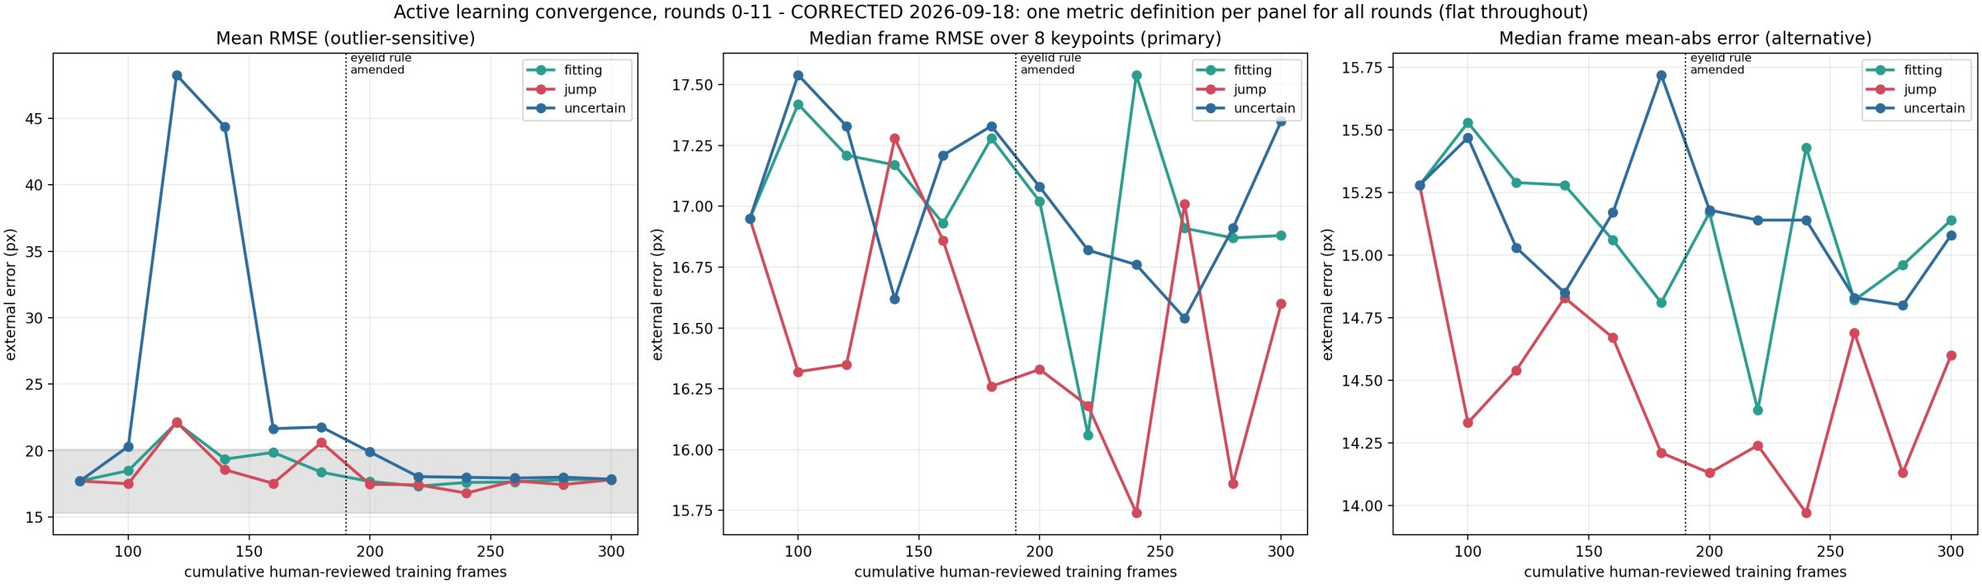
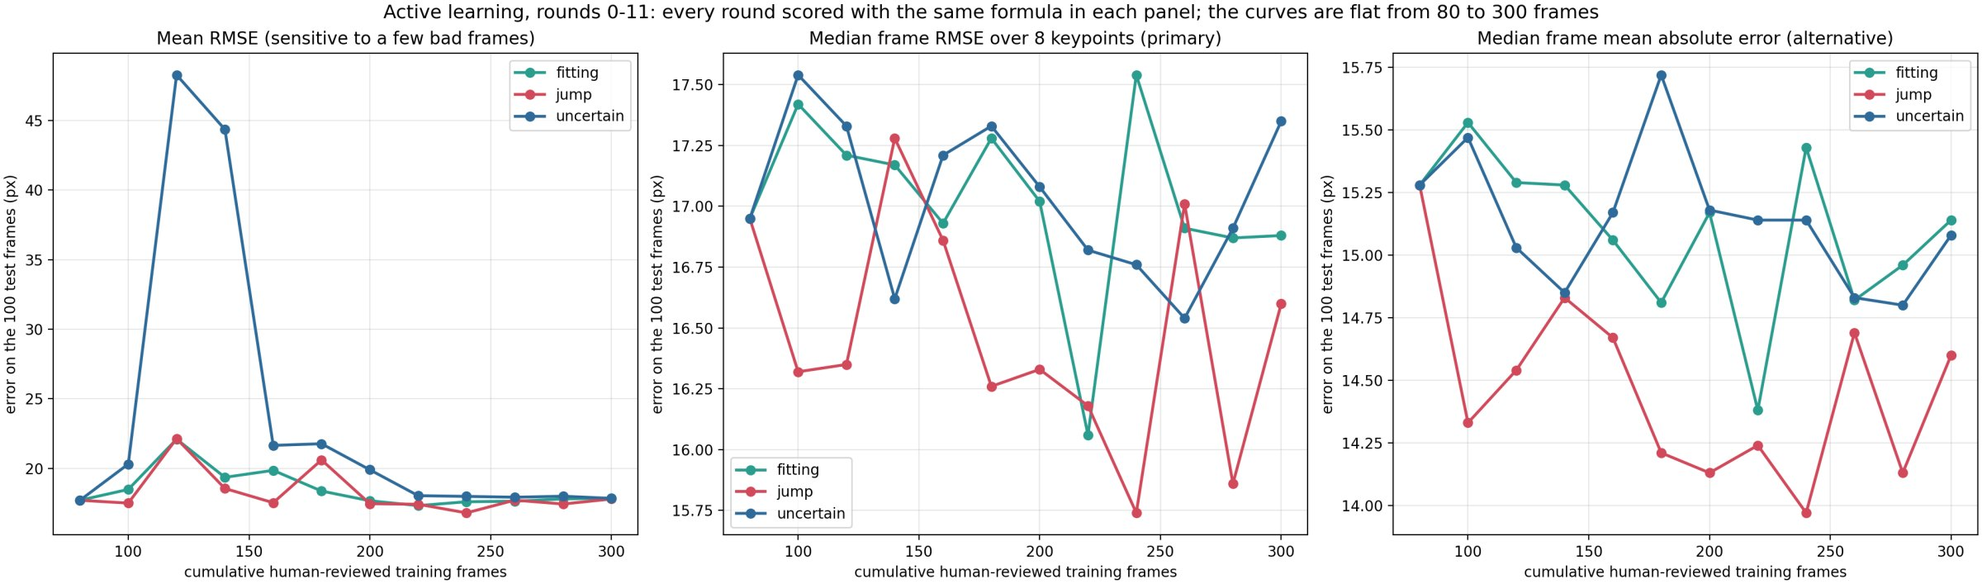
Active-learning results stated with one formula only: README rewritten without the retracted round-6 sections, page uses the redrawn figure and drops the correction passage
Claude-Session: https://claude.ai/code/session_017MK5SWBFFQAu8ejFk1z7fh

diff --git a/report/index.html b/report/index.html
@@ -69,7 +69,7 @@ code{font-family:var(--mono);font-size:.9em}
 
 <header>
   <h1><span lang="zh">小鼠眼睛关键点追踪：做了什么，结果是什么</span><span lang="en">Mouse eye keypoint tracking: what was done and what came out</span></h1>
-  <p class="muted small">Zhiheng Li (University of Minnesota), Kaiwen Sheng (Stanford) · <span lang="zh">页面生成时间</span><span lang="en">page built</span> 2026-10-03 23:49 · <a href="https://github.com/ZhihengLi0/mouse-behavior-tracking">GitHub: ZhihengLi0/mouse-behavior-tracking</a></p>
+  <p class="muted small">Zhiheng Li (University of Minnesota), Kaiwen Sheng (Stanford) · <span lang="zh">页面生成时间</span><span lang="en">page built</span> 2026-10-04 00:13 · <a href="https://github.com/ZhihengLi0/mouse-behavior-tracking">GitHub: ZhihengLi0/mouse-behavior-tracking</a></p>
 
   <div class="text" lang="zh">
     <p><b>任务：</b>用 DeepLabCut 在小鼠眼睛视频的每一帧上找 8 个点：瞳孔上、下、左、右，上眼睑、下眼睑，鼻侧眼角、颞侧眼角。由这 8 个点得到瞳孔大小、眼睛睁开程度和眨眼，之后与脑记录对齐。</p>
@@ -237,11 +237,11 @@ code{font-family:var(--mono);font-size:.9em}
   <p class="text" lang="en"><span class="tag">What was done:</span>The aim is to choose an error-correction algorithm: once a model is trained, an algorithm searches the video for frames where the model is probably wrong, a person corrects only those frames, and the model is retrained. This procedure is called active learning. Three algorithms were compared to see whose picks reduce the error most. Procedure: starting from 80 labels, each round the algorithm picks frames, a person corrects 20 of them, they are added and the model is retrained. Three detectors ran as three branches: low confidence (uncertain), keypoints jumping between consecutive frames (jump), deviation from a smooth trajectory (fitting). 11 rounds, each branch from 80 to 300 labels.</p>
   <figure>
     <div class="figbox"><img src="assets/fig_active_learning.jpg" alt="Active learning convergence, rounds 0-11"></div>
-    <figcaption lang="zh"><span class="tag">怎么看：</span>横轴是累计训练帧数，三种颜色是三种算法。<b>中间一幅是主要指标</b>（中位帧 RMSE）：三条线一直在 15.7–17.5 px 之间上下波动，没有下降趋势；红线（jump）多数时候略低；注意这幅图的纵轴只跨 2 px。左边一幅是均值，会被几帧严重错误拉高（蓝线在 120–140 帧的尖峰就是几帧眨眼造成的）。</figcaption>
-    <figcaption lang="en"><span class="tag">How to read:</span>x = cumulative training frames, the three colours are the three detectors. <b>The middle panel is the primary metric</b> (median frame RMSE): all three lines wander between 15.7 and 17.5 px with no downward trend; the red line (jump) is slightly lower most of the time; note that its y axis spans only 2 px. The left panel is the mean, which a few badly wrong frames pull up (the blue spike at 120–140 frames comes from a few blink frames).</figcaption>
+    <figcaption lang="zh"><span class="tag">怎么看：</span>横轴是累计训练帧数，三种颜色是三种算法。图中每一轮都用同一个公式计算。<b>中间一幅是主要指标</b>（中位帧 RMSE）：三条线一直在 15.7–17.5 px 之间上下波动，没有下降趋势；红线（jump）多数时候略低；注意这幅图的纵轴只跨 2 px。左边一幅是均值，会被几帧严重错误拉高（蓝线在 120–140 帧的尖峰就是几帧眨眼造成的）。</figcaption>
+    <figcaption lang="en"><span class="tag">How to read:</span>x = cumulative training frames, the three colours are the three detectors. Every round in the figure is scored with the same formula. <b>The middle panel is the primary metric</b> (median frame RMSE): all three lines wander between 15.7 and 17.5 px with no downward trend; the red line (jump) is slightly lower most of the time; note that its y axis spans only 2 px. The left panel is the mean, which a few badly wrong frames pull up (the blue spike at 120–140 frames comes from a few blink frames).</figcaption>
   </figure>
-  <p class="concl" lang="zh"><span class="tag">结论：</span>选 jump 作为纠错算法，之后的实验统一用它挑帧。三种算法没有明显差距，jump 略微领先：11 轮的平均中位误差是 jump 16.4 px、uncertain 17.0 px、fitting 17.0 px，11 轮里有 8 轮 jump 最低；差距只有约 0.6 px，小于同一设置重复训练时的波动，所以不能说 jump 确实更好。这一步同时得到另一个结果：在这个视频上（第一阶段的标注标准），约 80 帧就已经饱和，加到 300 帧误差不变。新标准下在同一个视频上重做，结果一致（第 8 步，视频 0：20–100 帧都在 12–13 px）。更正记录：第 6 轮曾报告“误差下降”，后来查出是中途换了误差公式造成的，已撤回（9 月 18 日）；这张图是统一公式后重算的。从此规定：同一个指标只用同一个脚本、同一个公式。</p>
-  <p class="concl" lang="en"><span class="tag">Conclusion:</span>jump is chosen as the error-correction algorithm and picks the frames in all later experiments. The three detectors show no clear gap, with jump slightly ahead: the mean of the median error over the 11 rounds is 16.4 px for jump, 17.0 px for uncertain and 17.0 px for fitting, and jump is the lowest in 8 of the 11 rounds; but the gap is only about 0.6 px, smaller than the run-to-run variation of one setting, so jump cannot be called truly better. The step gave a second result as well: on this video (phase-1 label standard) about 80 labels already saturate, and 300 labels give the same error. Redone on the same video under the new standard, the result is the same (step 8, video 0: 12–13 px anywhere from 20 to 100 labels). Correction on record: a "drop" reported at round 6 was traced to a change of error formula mid-series and was retracted (2026-09-18); this figure is recomputed with one formula. Rule since then: one metric, one script, one formula.</p>
+  <p class="concl" lang="zh"><span class="tag">结论：</span>选 jump 作为纠错算法，之后的实验统一用它挑帧。三种算法没有明显差距，jump 略微领先：11 轮的平均中位误差是 jump 16.4 px、uncertain 17.0 px、fitting 17.0 px，11 轮里有 8 轮 jump 最低；差距只有约 0.6 px，小于同一设置重复训练时的波动，所以不能说 jump 确实更好。这一步同时得到另一个结果：在这个视频上（第一阶段的标注标准），约 80 帧就已经饱和，加到 300 帧误差不变。新标准下在同一个视频上重做，结果一致（第 8 步，视频 0：20–100 帧都在 12–13 px）。</p>
+  <p class="concl" lang="en"><span class="tag">Conclusion:</span>jump is chosen as the error-correction algorithm and picks the frames in all later experiments. The three detectors show no clear gap, with jump slightly ahead: the mean of the median error over the 11 rounds is 16.4 px for jump, 17.0 px for uncertain and 17.0 px for fitting, and jump is the lowest in 8 of the 11 rounds; but the gap is only about 0.6 px, smaller than the run-to-run variation of one setting, so jump cannot be called truly better. The step gave a second result as well: on this video (phase-1 label standard) about 80 labels already saturate, and 300 labels give the same error. Redone on the same video under the new standard, the result is the same (step 8, video 0: 12–13 px anywhere from 20 to 100 labels).</p>
 </section>
 
 <!-- 4 -->

diff --git a/report/template.html b/report/template.html
@@ -237,11 +237,11 @@ code{font-family:var(--mono);font-size:.9em}
   <p class="text" lang="en"><span class="tag">What was done:</span>The aim is to choose an error-correction algorithm: once a model is trained, an algorithm searches the video for frames where the model is probably wrong, a person corrects only those frames, and the model is retrained. This procedure is called active learning. Three algorithms were compared to see whose picks reduce the error most. Procedure: starting from 80 labels, each round the algorithm picks frames, a person corrects 20 of them, they are added and the model is retrained. Three detectors ran as three branches: low confidence (uncertain), keypoints jumping between consecutive frames (jump), deviation from a smooth trajectory (fitting). 11 rounds, each branch from 80 to 300 labels.</p>
   <figure>
     <div class="figbox"><img src="assets/fig_active_learning.jpg" alt="Active learning convergence, rounds 0-11"></div>
-    <figcaption lang="zh"><span class="tag">怎么看：</span>横轴是累计训练帧数，三种颜色是三种算法。<b>中间一幅是主要指标</b>（中位帧 RMSE）：三条线一直在 15.7–17.5 px 之间上下波动，没有下降趋势；红线（jump）多数时候略低；注意这幅图的纵轴只跨 2 px。左边一幅是均值，会被几帧严重错误拉高（蓝线在 120–140 帧的尖峰就是几帧眨眼造成的）。</figcaption>
-    <figcaption lang="en"><span class="tag">How to read:</span>x = cumulative training frames, the three colours are the three detectors. <b>The middle panel is the primary metric</b> (median frame RMSE): all three lines wander between 15.7 and 17.5 px with no downward trend; the red line (jump) is slightly lower most of the time; note that its y axis spans only 2 px. The left panel is the mean, which a few badly wrong frames pull up (the blue spike at 120–140 frames comes from a few blink frames).</figcaption>
+    <figcaption lang="zh"><span class="tag">怎么看：</span>横轴是累计训练帧数，三种颜色是三种算法。图中每一轮都用同一个公式计算。<b>中间一幅是主要指标</b>（中位帧 RMSE）：三条线一直在 15.7–17.5 px 之间上下波动，没有下降趋势；红线（jump）多数时候略低；注意这幅图的纵轴只跨 2 px。左边一幅是均值，会被几帧严重错误拉高（蓝线在 120–140 帧的尖峰就是几帧眨眼造成的）。</figcaption>
+    <figcaption lang="en"><span class="tag">How to read:</span>x = cumulative training frames, the three colours are the three detectors. Every round in the figure is scored with the same formula. <b>The middle panel is the primary metric</b> (median frame RMSE): all three lines wander between 15.7 and 17.5 px with no downward trend; the red line (jump) is slightly lower most of the time; note that its y axis spans only 2 px. The left panel is the mean, which a few badly wrong frames pull up (the blue spike at 120–140 frames comes from a few blink frames).</figcaption>
   </figure>
-  <p class="concl" lang="zh"><span class="tag">结论：</span>选 jump 作为纠错算法，之后的实验统一用它挑帧。三种算法没有明显差距，jump 略微领先：11 轮的平均中位误差是 jump 16.4 px、uncertain 17.0 px、fitting 17.0 px，11 轮里有 8 轮 jump 最低；差距只有约 0.6 px，小于同一设置重复训练时的波动，所以不能说 jump 确实更好。这一步同时得到另一个结果：在这个视频上（第一阶段的标注标准），约 80 帧就已经饱和，加到 300 帧误差不变。新标准下在同一个视频上重做，结果一致（第 8 步，视频 0：20–100 帧都在 12–13 px）。更正记录：第 6 轮曾报告“误差下降”，后来查出是中途换了误差公式造成的，已撤回（9 月 18 日）；这张图是统一公式后重算的。从此规定：同一个指标只用同一个脚本、同一个公式。</p>
-  <p class="concl" lang="en"><span class="tag">Conclusion:</span>jump is chosen as the error-correction algorithm and picks the frames in all later experiments. The three detectors show no clear gap, with jump slightly ahead: the mean of the median error over the 11 rounds is 16.4 px for jump, 17.0 px for uncertain and 17.0 px for fitting, and jump is the lowest in 8 of the 11 rounds; but the gap is only about 0.6 px, smaller than the run-to-run variation of one setting, so jump cannot be called truly better. The step gave a second result as well: on this video (phase-1 label standard) about 80 labels already saturate, and 300 labels give the same error. Redone on the same video under the new standard, the result is the same (step 8, video 0: 12–13 px anywhere from 20 to 100 labels). Correction on record: a "drop" reported at round 6 was traced to a change of error formula mid-series and was retracted (2026-09-18); this figure is recomputed with one formula. Rule since then: one metric, one script, one formula.</p>
+  <p class="concl" lang="zh"><span class="tag">结论：</span>选 jump 作为纠错算法，之后的实验统一用它挑帧。三种算法没有明显差距，jump 略微领先：11 轮的平均中位误差是 jump 16.4 px、uncertain 17.0 px、fitting 17.0 px，11 轮里有 8 轮 jump 最低；差距只有约 0.6 px，小于同一设置重复训练时的波动，所以不能说 jump 确实更好。这一步同时得到另一个结果：在这个视频上（第一阶段的标注标准），约 80 帧就已经饱和，加到 300 帧误差不变。新标准下在同一个视频上重做，结果一致（第 8 步，视频 0：20–100 帧都在 12–13 px）。</p>
+  <p class="concl" lang="en"><span class="tag">Conclusion:</span>jump is chosen as the error-correction algorithm and picks the frames in all later experiments. The three detectors show no clear gap, with jump slightly ahead: the mean of the median error over the 11 rounds is 16.4 px for jump, 17.0 px for uncertain and 17.0 px for fitting, and jump is the lowest in 8 of the 11 rounds; but the gap is only about 0.6 px, smaller than the run-to-run variation of one setting, so jump cannot be called truly better. The step gave a second result as well: on this video (phase-1 label standard) about 80 labels already saturate, and 300 labels give the same error. Redone on the same video under the new standard, the result is the same (step 8, video 0: 12–13 px anywhere from 20 to 100 labels).</p>
 </section>
 
 <!-- 4 -->

diff --git a/v1_old_pupil_top/active-learning-jump-selection/results/README.md b/v1_old_pupil_top/active-learning-jump-selection/results/README.md
@@ -1,142 +1,57 @@
-# Active Learning: Final Results (rounds 0-5 complete)
+# Active learning: results (rounds 0-11)
 
-> **CORRECTION (2026-09-18).** An internal audit found that the "median frame
-> error" on this page mixed two definitions: rounds 0-5 used the per-frame
-> RMSE over the 8 keypoints, rounds 6-11 (and production_v1) used the
-> per-frame MEAN absolute error, which is ~1.7-2 px lower on the same data.
-> The reported "round-6 drop" (17 -> 14-15 px), the "second saturation", and
-> the claim that the amended eyelid-labeling rule moved the error floor were
-> artifacts of that switch and are RETRACTED. Under one definition the curve
-> is flat from round 0 to round 11 (median frame RMSE 15.7-17.5 px, baseline
-> 16.95; the amendment's before/after difference is ~0.3 px, inside noise).
-> What stands: ~80 labels saturate typical-frame accuracy and nothing up to
-> 300 labels moves it; the three detectors are indistinguishable; the
-> round-11 stop was correct. production_v1 under the same definition:
-> median 16.01 px (baseline 16.95), mean-abs median 13.94 px, 98% of points
-> above likelihood 0.6. `convergence.csv` and the figure are recomputed;
-> both definitions are now stored in separate, explicitly named columns.
-> Sections below are kept for the record; read them through this notice.
+Every number on this page is computed with one formula for all rounds: the per-frame RMSE over the 8 keypoints, then
+the median over the 100 test frames (`median_frame_rmse_px` in `convergence.csv`). An earlier version of this page
+mixed two formulas between rounds 0-5 and rounds 6-11 and reported a drop at round 6 that does not exist; those
+statements were removed (history: tag `v0.5.1`, `CHANGELOG.md`).
 
+## Basic information
 
-Three outlier detectors competed under one frozen protocol
-(../FROZEN_PARAMETERS.md): identical ResNet-50 / batch 2 / 100-epoch training
-from scratch each round, identical seed labels, k-means extraction; the only
-variable was the detector nominating candidate frames (uncertain p_bound=0.6,
-jump epsilon=20, fitting epsilon=20). Each branch grew 80 -> 180 reviewed
-training frames over five rounds; every point below is one evaluation on the
-report-only final-minute 100 frames.
+- Video: the 5-minute eye video of the first mouse (60 fps). Frames 0-14399 (first 4 minutes) are the pool for frame
+  selection and training; the final minute is used for testing only.
+- Test set: 100 frames evenly spaced over the final minute, all 8 keypoints labeled by hand; report only.
+- Start: 80 training frames + 20 validation frames (temporal block split; the validation set never grows).
+- Each round, per branch: the current model predicts the 14,400 pool frames, the detector flags candidate frames,
+  k-means picks 20 of them, a person corrects all 8 keypoints, the frames are added and the model is trained anew.
+  Three detectors = three independent branches: `uncertain` (p_bound 0.6), `jump` (epsilon 20 px), `fitting`
+  (epsilon 20 px). 11 rounds, 80 -> 300 training frames per branch.
+- Model and settings: ResNet-50, batch 2, 100 epochs, LR drops at epochs 80 and 95, MPS, trained anew from
+  ImageNet-pretrained weights every round, one run per point. Scored snapshot on this page: best internal validation
+  mAP (the final-snapshot re-scoring is in the last section).
+- Labeling rule (unchanged throughout): a keypoint is labeled when it can be seen clearly and left empty when its
+  position cannot be judged accurately.
+- Label standard: phase 1 (pupil top = highest point of the visible pupil). Not comparable with numbers under the
+  ellipse standard of 2026-09-20.
 
-## Headline result
+## Results
 
-**Adding 100 targeted labels did not improve external error for any branch,
-and the three detectors are statistically indistinguishable.**
+![convergence](01_convergence_curves.png)
 
-- Median frame error stayed flat for all branches across all rounds
-  (16.3-17.5 px, entirely inside the ±2.4 px single-run noise band).
-- No branch's mean ever finished below the 17.70 px baseline; the mean's
-  excursions (up to 48 px) were driven by 3-6 catastrophic frames, not by
-  typical-frame quality.
-- The frozen plateau rule (two consecutive rounds < 5% improvement) fires at
-  round 2 for every branch - improvement never materialised.
+- **About 80 labels saturate this video.** The median frame RMSE stays between 15.7 and 17.5 px from 80 to 300
+  training frames in all three branches (round-0 baseline 16.95 px); there is no downward trend.
+- **Detectors: no clear gap, jump slightly ahead.** Mean over rounds 1-11 of the median frame RMSE: jump 16.44 px,
+  uncertain 17.04 px, fitting 17.03 px; jump is the lowest branch in 8 of the 11 rounds. The gap is about 0.6 px,
+  smaller than the run-to-run variation of one setting, so jump cannot be called truly better. jump is the detector
+  used in all later experiments.
+- **The mean RMSE is driven by a few frames.** The `uncertain` branch reaches 48.3 and 44.4 px mean RMSE at 120 and
+  140 frames while its median stays near 17 px; with the final snapshot these two points are 18.6 and 18.1 px (last
+  section).
 
-## What the flat curve means (the actual finding)
-
-1. ~80 well-reviewed frames already saturate typical-frame performance on
-   this test set. The scaling question the lab asked ("how many labels are
-   enough?") has a concrete answer at this video's difficulty: about eighty,
-   provided the labels are consistent.
-2. The residual error budget is not label-starvation. It splits into
-   (a) an irreducible-looking ~16-17 px floor on ordinary frames - of the
-   same order as human relabeling shifts, i.e. close to label noise - and
-   (b) a handful of blink/occlusion frames (led by the recurring
-   160.5-160.7 s event and the historic frame16232) where "locate the pupil"
-   is ill-posed because the pupil is not visible.
-3. Every branch kept selecting those same pathological moments from opposite
-   suspicion logics, and the human answer was to leave occluded points empty.
-   The productive next step is therefore not more keypoint labels but
-   likelihood-gated blink/occlusion handling - exactly the lab's next goal.
-
-## Detector comparison
-
-No winner. All three curves live inside the noise band of each other. jump
-ended with the best median (16.26 px), fitting with the best final mean
-(18.36 px), uncertain spent two rounds hostage to blink frames before
-recovering - all differences are within ±2.4 px single-run noise. Under this
-protocol and data scale, detector choice did not matter; frame budget spent
-anywhere among the three bought the same (null) improvement.
+Caveats: one training run per point; the test set is one specific minute of one video.
 
 ## Files
 
-- `convergence.csv` - all 18 points (branch, round, cumulative frames, mean,
-  median, confidence, evaluated label).
-- `01_convergence_curves.png` - mean + median curves with the noise band.
+- `convergence.csv` - all rounds and branches; `median_frame_rmse_px` (primary), `median_frame_mean_abs_px`
+  (alternative formula, about 2 px lower on the same data), `external_overall_rmse_px` (mean RMSE).
+- `01_convergence_curves.png` - drawn from `convergence.csv` by `../scripts/plot_convergence.py`.
 - `round1_selection_report.json` - round-1 selections and collision audit.
 
-Caveats: single run per point (no repeated seeds); the report set, while
-never used for selection, is one specific minute of one video; conclusions
-are about this data scale and difficulty, not about active learning at large.
+## Production model (2026-09-15)
 
-## Round 6 addendum (2026-09-13): the plateau-verification round
-
-The lab meeting asked for extra rounds to confirm the plateau. Round 6
-(+20 frames per branch, 200 training frames) produced the experiment's
-first genuinely interesting movement: **all three branch medians dropped
-together** - uncertain 15.18 px, jump 14.13 px, fitting 15.17 px - after six
-rounds pinned at 16.3-17.5 px, and jump's point sits *below* the ±2.4 px
-noise band (band floor 14.55 px). Means stayed unremarkable (17.5-19.9 px,
-in/near band).
-
-**Interpretation requires one honest caveat.** Round 6 is the first round
-labeled under the amended eyelid rule (blink-frame eyelids are now labeled
-rather than left empty), so two variables changed at once: +20 frames AND a
-labeling-standard change. A synchronized drop across all three branches is
-more consistent with the shared cause (the labeling amendment supplying
-eyelid supervision on hard frames) than with three independent detectors
-suddenly winning simultaneously. The rounds 0-5 conclusion (saturation under
-the *old* labeling standard) stands; round 6 suggests the next gains come
-from *what* is labeled, not *how many* - which is itself the meeting's
-thesis.
-
-**How to disambiguate** (round 7, if run): candidates are already selected;
-labeling them under the same amended rule and watching whether medians keep
-falling (labeling-standard effect saturates) or revert (noise) would settle
-it. A control - relabeling only the round-6 frames' eyelids under the old
-rule and retraining - would isolate the amendment's contribution exactly.
-
-## Final chapter (2026-09-14): second saturation, experiment closed
-
-The extension phase (rounds 6-11, all labeled under the amended blink-eyelid
-rule) ended by the pre-declared referee rules:
-
-- Rounds 0-5 (old labeling standard): medians flat at 16.3-17.5 px -
-  **first saturation** at ~80 frames.
-- Round 6: all three branches dropped together (the amendment supplying
-  eyelid supervision on blink frames) - the floor moved to 14-15 px.
-- Rounds 7-11: the three branches oscillate in a 14.0-15.4 px band with no
-  branch beating its own r8-r10 minimum by more than 0.5 px at round 11
-  (uncertain 14.80 -> 15.08, jump 13.97 -> 14.60, fitting 14.82 -> 15.14) -
-  **second saturation**, declared by the pre-registered stopping rule at
-  round 11 (cap was 12; round-12 labels exist but were never trained on).
-
-Final story in one sentence: **label count saturates quickly (twice), and
-the one intervention that moved the floor was changing what gets labeled,
-not how much** - the amended eyelid rule bought ~2.3 px (17 -> 14.7) where
-120 extra frames under the old standard bought nothing. Detector choice
-never mattered at any stage. 12 rounds, 36 trainings, 300 human-reviewed
-frames per branch, one held-out minute never touched by any decision except
-the two pre-declared referee reads.
-
-## Production model (post-experiment, 2026-09-15)
-
-With the experiment closed, one model was trained on the union of every
-human-reviewed label (80 seed + 596 unique frames across all branches and
-the untrained round-12 sets; frozen recipe; shuffle 60). Scored once on the
-report-only set as `al_production_v1`: **median 13.94 px, mean 14.77 px,
-98% of points above likelihood 0.6** - the best of all three metrics in the
-project, with the mean and confidence gains (previous best mean 15.07;
-selection-time confidence 73%) showing what the merged pool's diversity
-buys: fewer catastrophic frames and near-total calibration. This model
-(shuffle 60, best snapshot) is the deployment model for new videos.
+After the experiment one model was trained on the union of every human-reviewed label (80 seed frames + 596 unique
+frames across all branches; same recipe; shuffle 60). Scored once on the same test set as `al_production_v1`:
+**median frame RMSE 16.01 px** (round-0 baseline 16.95 px), 98% of points with confidence >= 0.6. This is the model
+applied unchanged to the first video of the second mouse (the 0-label point of `../../new-video-generalization/`).
 
 ## Re-scored under the final-snapshot rule (2026-09-19)
 
